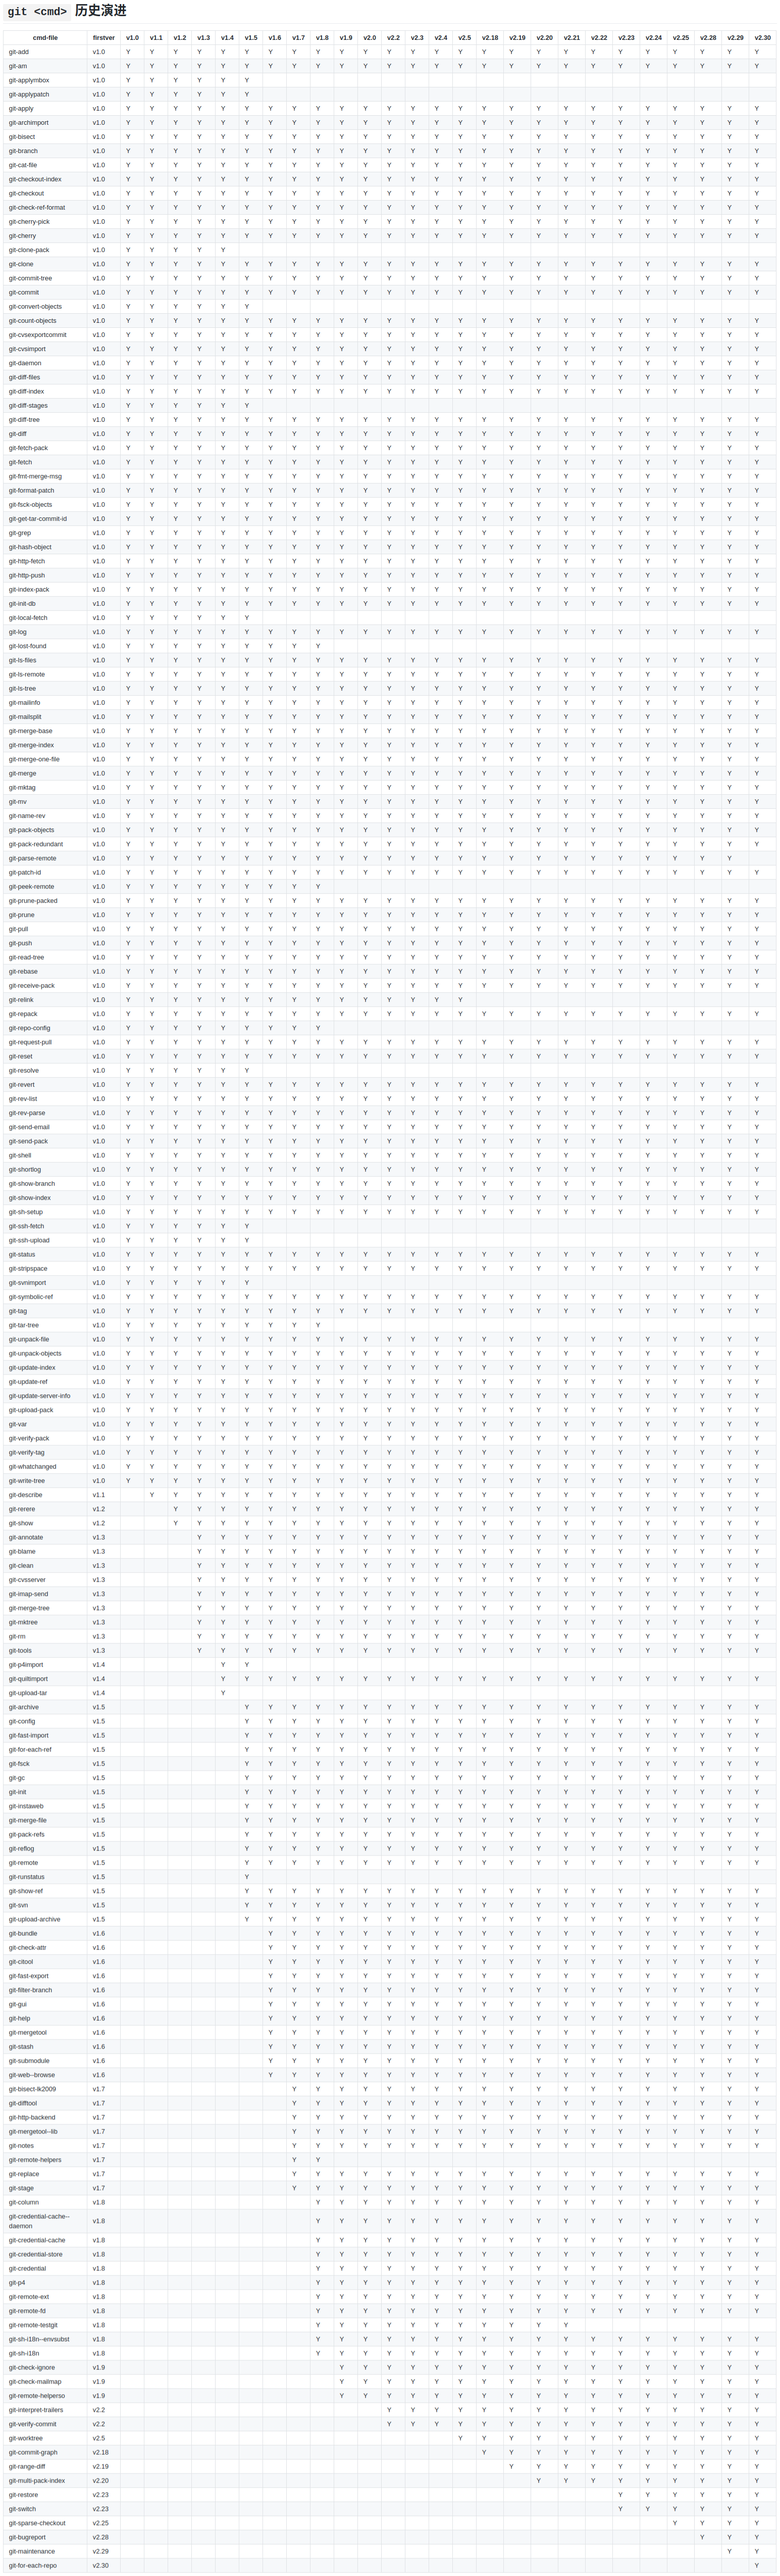
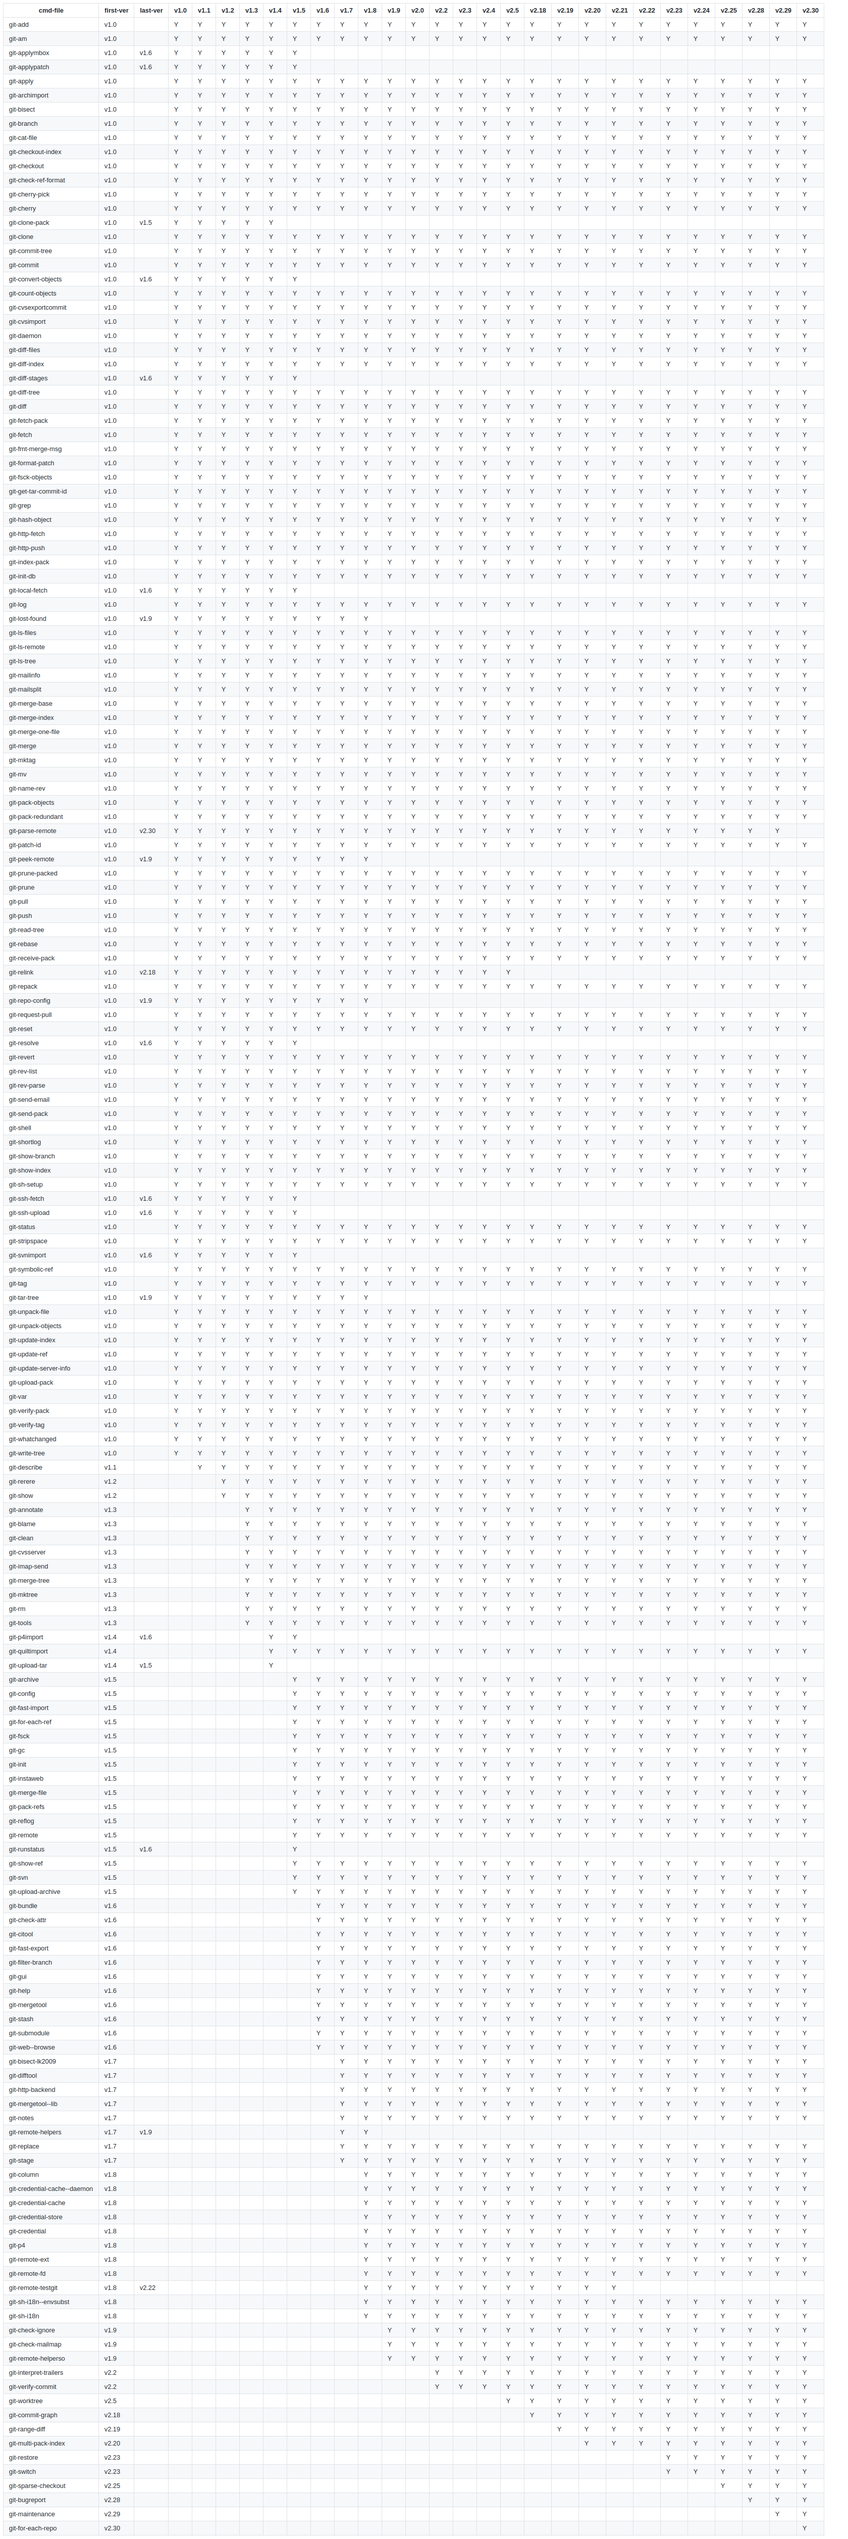
fix

diff --git a/_posts/2021-04-14-git.cmd.history.md b/_posts/2021-04-14-git.cmd.history.md
@@ -11,4 +11,7 @@ tags:
 
 对 git 的源码进行了一些分析，统计 Documentation/ 文件夹下的 git-xxx 命名的文件（即 git 命令的帮助文件）出现的版本号（tag），可以看出其生命周期，有些只出现一个版本就消亡掉了（`git upload-tar`），有些很晚才出现（`git switch`）
 
+其中，由于 v2.6 ～ v2.17 几乎没有变化，省略。
+
 ![](/images/posts/2021-04-14-git.cmd.history/git-cmd-history.png)
+
